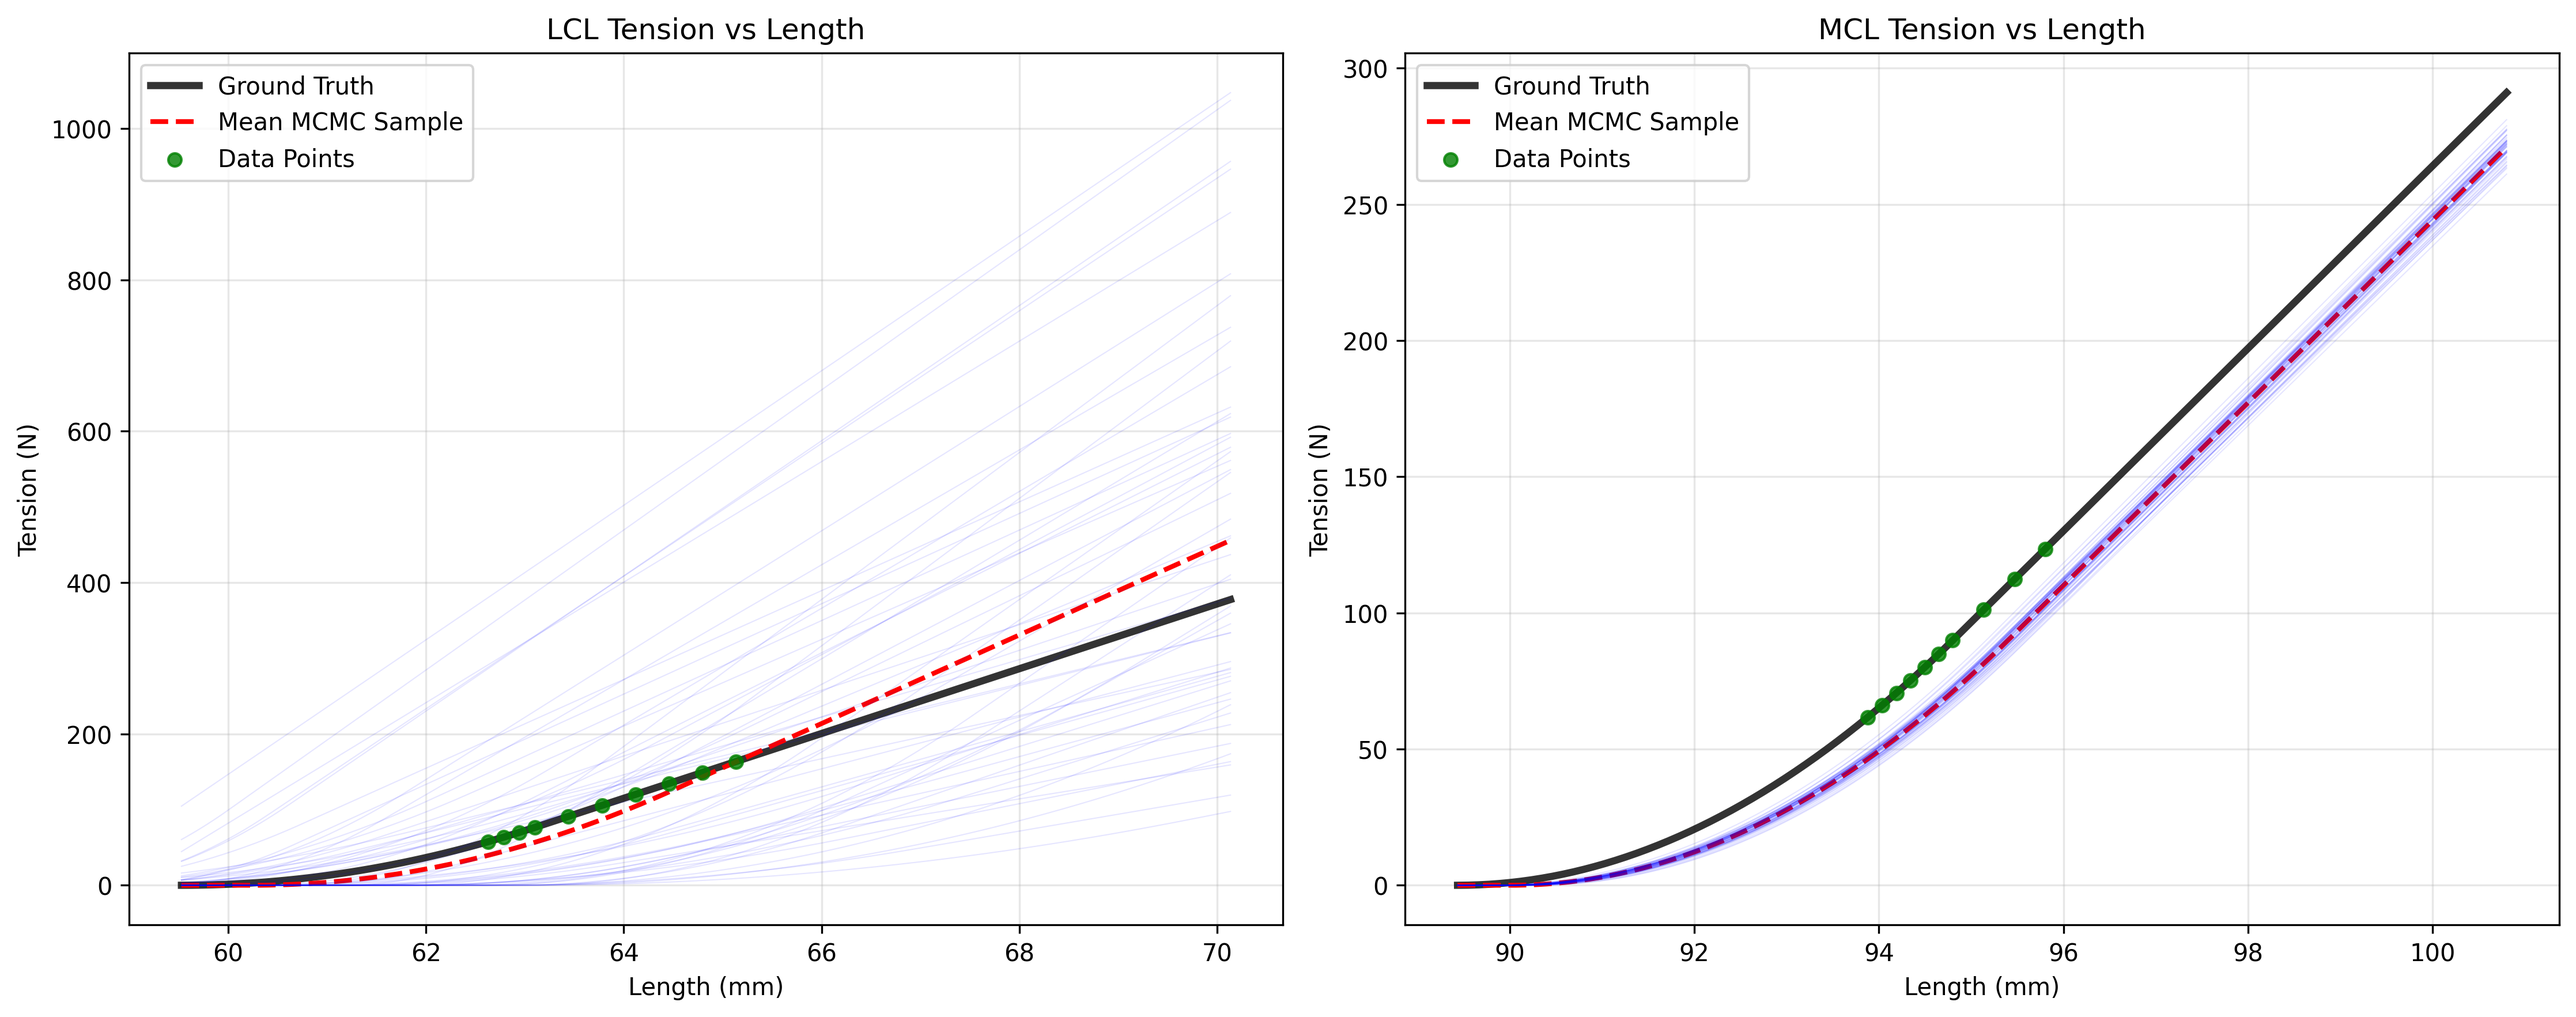
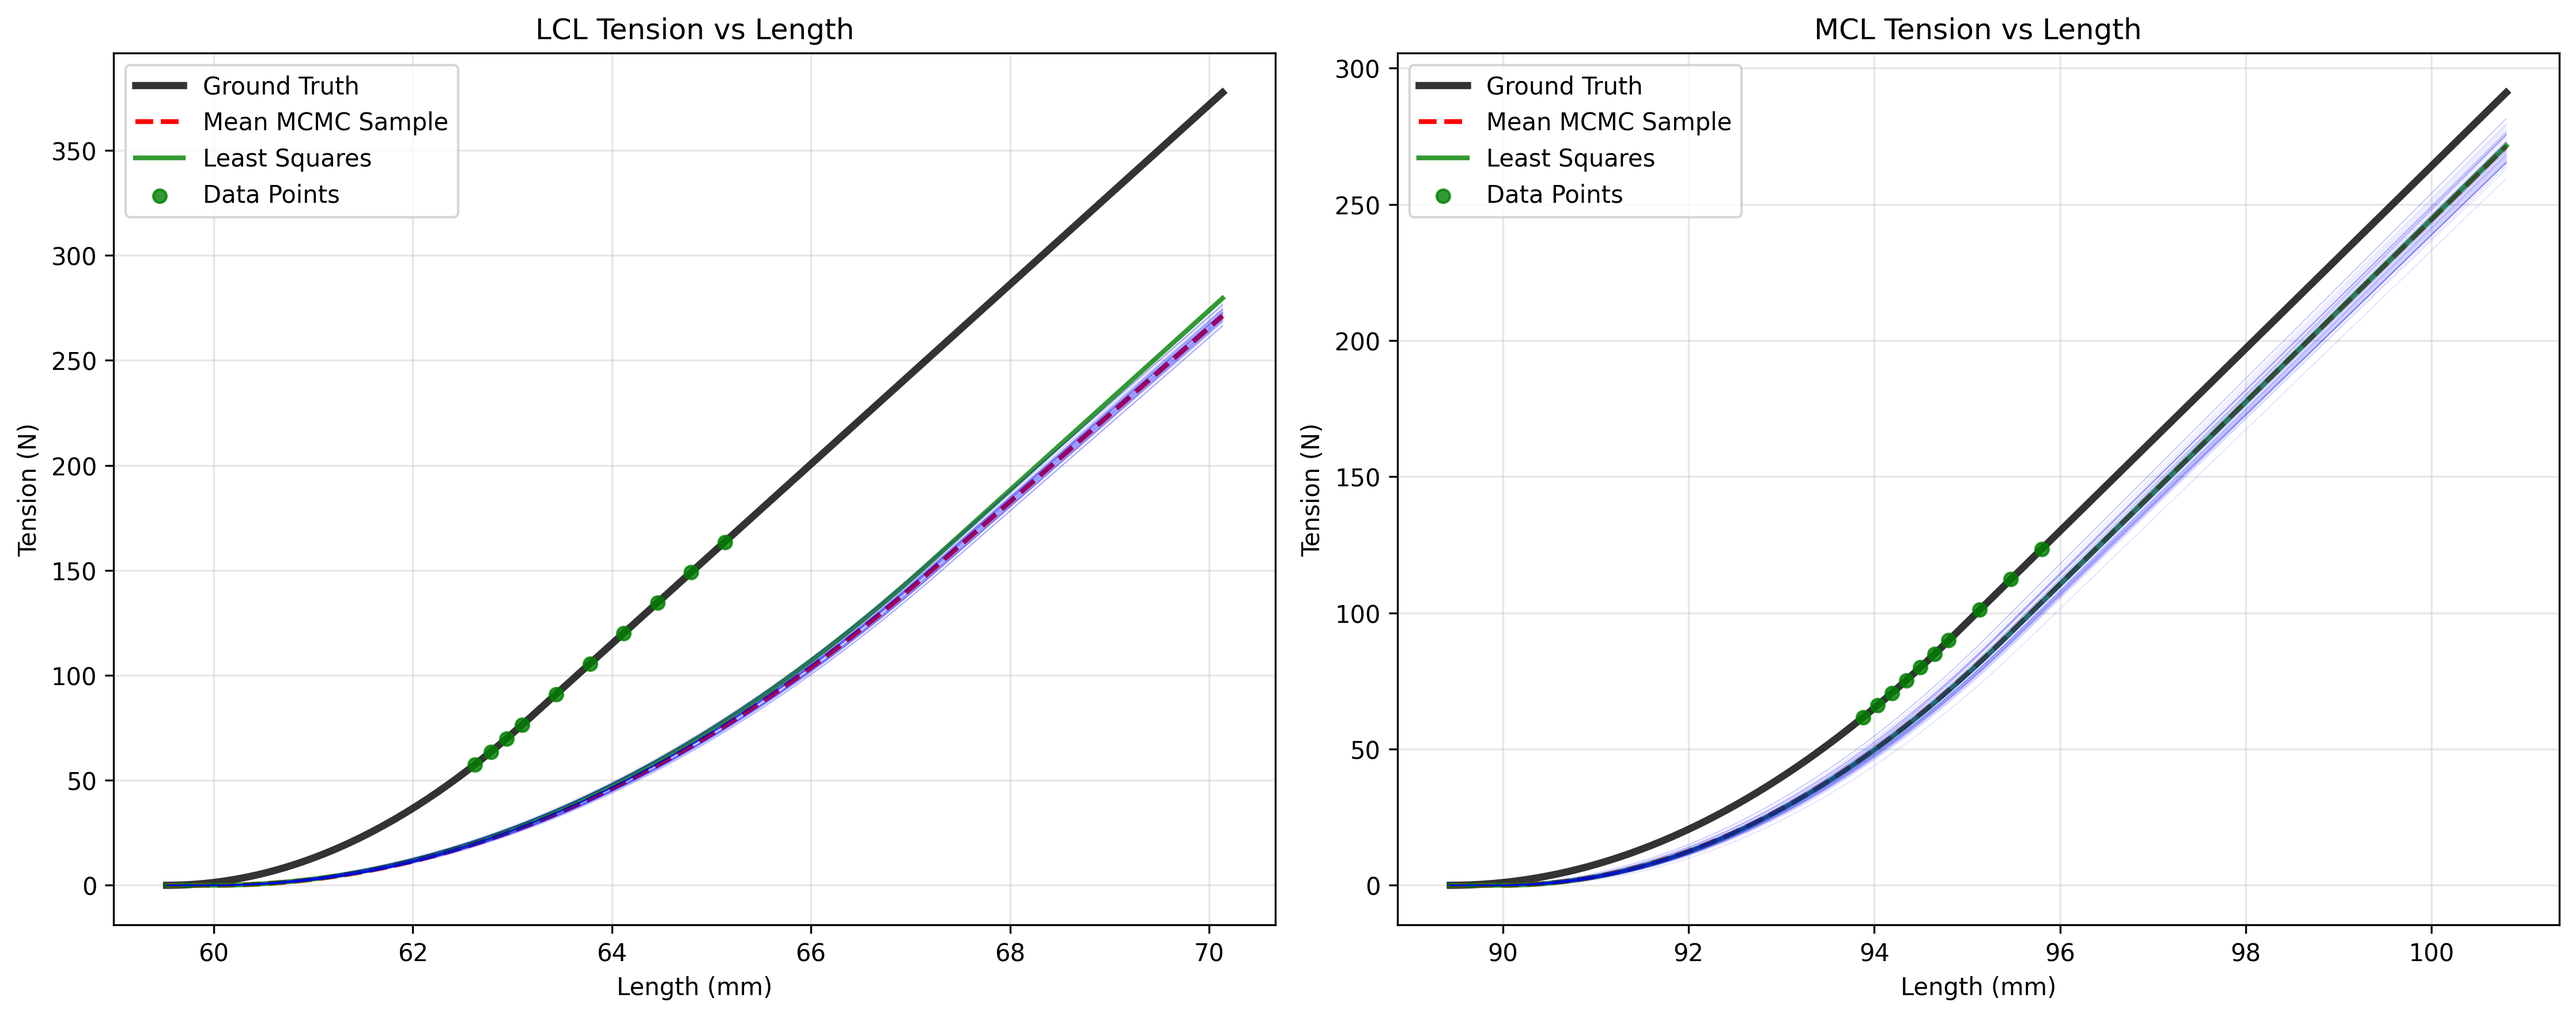
MCMC and LS

diff --git a/combined_ligament_solver/src/ligament_reconstructor/mcmc_sampler.py b/combined_ligament_solver/src/ligament_reconstructor/mcmc_sampler.py
@@ -197,8 +197,8 @@ class CompleteMCMCSampler(BaseSampler):
         
         return total_log_prob
 
-    def initial_walkers(self, n_walkers, std=0.1):
-        """Initialize walkers in unconstrained space around reasonable starting values."""
+    def initial_walkers(self, n_walkers, std=0.1, ls_result=None):
+        """Initialize walkers in unconstrained space around reasonable starting values or least squares results."""
         mcl_constraints_manager = self.constraint_manager[0]
         lcl_constraints_manager = self.constraint_manager[1]
 
@@ -212,8 +212,17 @@ class CompleteMCMCSampler(BaseSampler):
         
         initial_positions = np.zeros((n_walkers, total_params))
 
-        mcl_start_values = [33.5, 0.06, 90.0, 0.0]  # From config.yaml
-        lcl_start_values = [42.8, 0.06, 60.0, 0.0]  # From config.yaml
+        # Use least squares results if available, otherwise use default values
+        if ls_result is not None:
+            mcl_start_values = ls_result['mcl_params']
+            lcl_start_values = ls_result['lcl_params']
+            print(f"Using least squares results for MCMC initialization:")
+            print(f"  MCL: {mcl_start_values}")
+            print(f"  LCL: {lcl_start_values}")
+        else:
+            mcl_start_values = [33.5, 0.06, 90.0, 0.0]  # From config.yaml
+            lcl_start_values = [42.8, 0.06, 60.0, 0.0]  # From config.yaml
+            print("Using default values for MCMC initialization")
         
         # Initialize walkers for MCL parameters
         for i in range(n_mcl_params):
@@ -222,12 +231,12 @@ class CompleteMCMCSampler(BaseSampler):
                 # Fixed parameter - set all walkers to the same value
                 initial_positions[:, i] = lower
             else:
-                # Variable parameter - start near reasonable values with small noise
+                # Variable parameter - start near starting values with small noise
                 start_val = mcl_start_values[i]
                 # Ensure start value is within bounds
                 start_val = np.clip(start_val, lower, upper)
                 # Add small random noise around the starting value
-                noise_scale = min(std * (upper - lower), 0.01 * (upper - lower))  # Reduced from 0.1 to 0.01
+                noise_scale = min(std * (upper - lower), 0.01 * (upper - lower))
                 initial_positions[:, i] = start_val + np.random.normal(0, noise_scale, n_walkers)
                 # Clip to bounds
                 initial_positions[:, i] = np.clip(initial_positions[:, i], lower, upper)
@@ -239,13 +248,20 @@ class CompleteMCMCSampler(BaseSampler):
                 # Fixed parameter - set all walkers to the same value
                 initial_positions[:, i + n_mcl_params] = lower
             else:
-                # Variable parameter - sample uniformly
-                initial_positions[:, i + n_mcl_params] = np.random.uniform(lower, upper, n_walkers)
+                # Variable parameter - start near starting values with small noise
+                start_val = lcl_start_values[i]
+                # Ensure start value is within bounds
+                start_val = np.clip(start_val, lower, upper)
+                # Add small random noise around the starting value
+                noise_scale = min(std * (upper - lower), 0.01 * (upper - lower))
+                initial_positions[:, i + n_mcl_params] = start_val + np.random.normal(0, noise_scale, n_walkers)
+                # Clip to bounds
+                initial_positions[:, i + n_mcl_params] = np.clip(initial_positions[:, i + n_mcl_params], lower, upper)
             
         return initial_positions
 
     def initial_walkers_screened(self, n_walkers, std=0.1, 
-                                screen_percentage=0.1, thetas=None, applied_forces=None, sigma_noise=1e-3):
+                                screen_percentage=0.1, thetas=None, applied_forces=None, sigma_noise=1e-3, ls_result=None):
         """
         Initialize walkers by screening candidates and selecting the highest probability ones.
         
@@ -256,10 +272,11 @@ class CompleteMCMCSampler(BaseSampler):
             thetas: Input data for likelihood evaluation
             applied_forces: Target data for likelihood evaluation
             sigma_noise: Noise standard deviation
+            ls_result: Least squares optimization results for better initialization
         """
         # Generate many more candidates than needed
         n_candidates = int(n_walkers / screen_percentage)
-        candidate_positions = self.initial_walkers(n_candidates, std)
+        candidate_positions = self.initial_walkers(n_candidates, std, ls_result)
         
         # Evaluate log-probability for all candidates
         log_probs = np.array([
@@ -288,15 +305,18 @@ class CompleteMCMCSampler(BaseSampler):
         
         return candidate_positions[selected_indices]
 
-    def sample(self, thetas, applied_forces, lcl_lengths, mcl_lengths, sigma_noise=1e-3, random_state=None, **kwargs):
+    def sample(self, thetas, applied_forces, lcl_lengths, mcl_lengths, sigma_noise=1e-3, random_state=None, ls_result=None, **kwargs):
         """
         Generate samples using MCMC.
         
         Args:
             thetas: Input data points (knee angles)
             applied_forces: Target data points (applied forces)
+            lcl_lengths: LCL lengths for each theta
+            mcl_lengths: MCL lengths for each theta
             sigma_noise: Noise standard deviation
             random_state: Random state for reproducibility
+            ls_result: Least squares optimization results for better initialization
             **kwargs: Additional parameters (can override n_walkers, n_steps, n_burnin)
             
         Returns:
@@ -339,10 +359,11 @@ class CompleteMCMCSampler(BaseSampler):
             initial_positions = self.initial_walkers_screened(
                 n_walkers, 
                 screen_percentage=screen_percentage,
-                thetas=thetas, applied_forces=applied_forces, sigma_noise=sigma_noise
+                thetas=thetas, applied_forces=applied_forces, sigma_noise=sigma_noise,
+                ls_result=ls_result
             )
         else:
-            initial_positions = self.initial_walkers(n_walkers)
+            initial_positions = self.initial_walkers(n_walkers, ls_result=ls_result)
         
         # Optional: return initial positions for visualization (disable MCMC)
         if kwargs.get('visualize_only', False):
@@ -414,16 +435,16 @@ class CompleteMCMCSampler(BaseSampler):
         # For each theta, update angle and solve for predicted applied force
         for i,theta in enumerate(thetas):
             
-            mcl_length = self.mcl_lengths[i] # Ligament a
-            lcl_length = self.lcl_lengths[i] # Ligament b
+            mcl_length = self.mcl_lengths[i] # Ligament b
+            lcl_length = self.lcl_lengths[i] # Ligament a
 
             # Get ligament tensions using the model's ligament functions
-            mcl_tension = float(knee_model.lig_function_right(mcl_length))
-            lcl_tension = float(knee_model.lig_function_left(lcl_length))
+            mcl_tension = float(knee_model.lig_function_left(mcl_length))
+            lcl_tension = float(knee_model.lig_function_right(lcl_length))
 
             contact_point = knee_model.knee_joint.get_contact_point(theta=theta)
-            mcl_direction = knee_model.lig_springA.get_force_direction_on_p2()
-            lcl_direction = knee_model.lig_springB.get_force_direction_on_p2()
+            mcl_direction = knee_model.lig_springB.get_force_direction_on_p2()
+            lcl_direction = knee_model.lig_springA.get_force_direction_on_p2()
 
             mcl_force_vector =  abs(mcl_tension) * mcl_direction
             lcl_force_vector =  abs(lcl_tension) * lcl_direction

diff --git a/combined_ligament_solver/main.py b/combined_ligament_solver/main.py
@@ -44,11 +44,34 @@ def analyse_data(config, data, constraint_manager):
     print("=" * 50)
     
     sampler = CompleteMCMCSampler(knee_config, constraint_manager)
-    cov_matrix, std_params, samples, acceptance_rate = sampler.sample(thetas, applied_forces, lcl_lengths=pre_compute_lcl_lengths, 
-        mcl_lengths=pre_compute_mcl_lengths, use_screening=True, screen_percentage=0.1, sigma_noise=1e3)
+    cov_matrix, std_params, samples, acceptance_rate = sampler.sample(
+        thetas, applied_forces, 
+        lcl_lengths=pre_compute_lcl_lengths, 
+        mcl_lengths=pre_compute_mcl_lengths, 
+        use_screening=True, 
+        screen_percentage=0.1, 
+        sigma_noise=1e3,
+        ls_result=ls_result
+    )
     
     print(f"MCMC completed with {len(samples)} samples")
     print(f"Acceptance rate: {acceptance_rate:.3f}")
+    
+    # Compare results
+    print("\n" + "=" * 50)
+    print("COMPARISON: LEAST SQUARES vs MCMC")
+    print("=" * 50)
+    print(f"Least squares RMSE: {ls_result['rmse']:.2f}")
+    print(f"Least squares MAE:  {ls_result['mae']:.2f}")
+    
+    # Calculate MCMC mean parameters for comparison
+    mcmc_mcl_params = np.mean(samples[:, :4], axis=0)
+    mcmc_lcl_params = np.mean(samples[:, 4:], axis=0)
+    print(f"\nParameter comparison:")
+    print(f"MCL - LS: {ls_result['mcl_params']}")
+    print(f"MCL - MCMC mean: {mcmc_mcl_params}")
+    print(f"LCL - LS: {ls_result['lcl_params']}")
+    print(f"LCL - MCMC mean: {mcmc_lcl_params}")
     
     # Visualize results
     visualize_ligament_curves(config, samples, data, ls_result)
@@ -262,7 +285,6 @@ def visualize_ligament_curves(config, samples, data, ls_result=None):
     
     plt.tight_layout()
     plt.savefig('ligament_curves.png', dpi=300, bbox_inches='tight')
-    plt.show()
 
 def visualize_theta_force_curves(config, samples, data, ls_result=None):
     """Plot theta vs applied force with MCMC samples and least squares results."""

diff --git a/combined_ligament_solver/src/ligament_reconstructor/ligament_optimiser.py b/combined_ligament_solver/src/ligament_reconstructor/ligament_optimiser.py
@@ -284,13 +284,13 @@ def least_squares_optimize_complete_model(thetas, applied_forces, lcl_lengths, m
                 knee_model.knee_joint.theta = theta
                 
                 # Get ligament tensions using the model's ligament functions
-                mcl_tension = float(knee_model.lig_function_right(mcl_lengths[i]))
-                lcl_tension = float(knee_model.lig_function_left(lcl_lengths[i]))
+                mcl_tension = float(knee_model.lig_function_left(mcl_lengths[i]))
+                lcl_tension = float(knee_model.lig_function_right(lcl_lengths[i]))
                 
                 # Calculate moment arms and applied force (same as MCMC)
                 contact_point = knee_model.knee_joint.get_contact_point(theta=theta)
-                mcl_direction = knee_model.lig_springA.get_force_direction_on_p2()
-                lcl_direction = knee_model.lig_springB.get_force_direction_on_p2()
+                mcl_direction = knee_model.lig_springB.get_force_direction_on_p1()
+                lcl_direction = knee_model.lig_springA.get_force_direction_on_p1()
                 
                 mcl_force_vector = abs(mcl_tension) * mcl_direction
                 lcl_force_vector = abs(lcl_tension) * lcl_direction
@@ -364,8 +364,8 @@ def least_squares_optimize_complete_model(thetas, applied_forces, lcl_lengths, m
         return mcmc_like_loss(params) + constraint_loss(params)
     
     # Initial guess - use reasonable starting values
-    mcl_start = [33.5, 0.06, 90.0, 0.0]  # From config.yaml
-    lcl_start = [42.8, 0.06, 60.0, 0.0]  # From config.yaml
+    mcl_start = [40, 0.06, 90.0, 0.0]
+    lcl_start = [60, 0.06, 60.0, 0.0]
     initial_params = np.array(mcl_start + lcl_start)
     
     print(f"Starting least squares optimization...")
